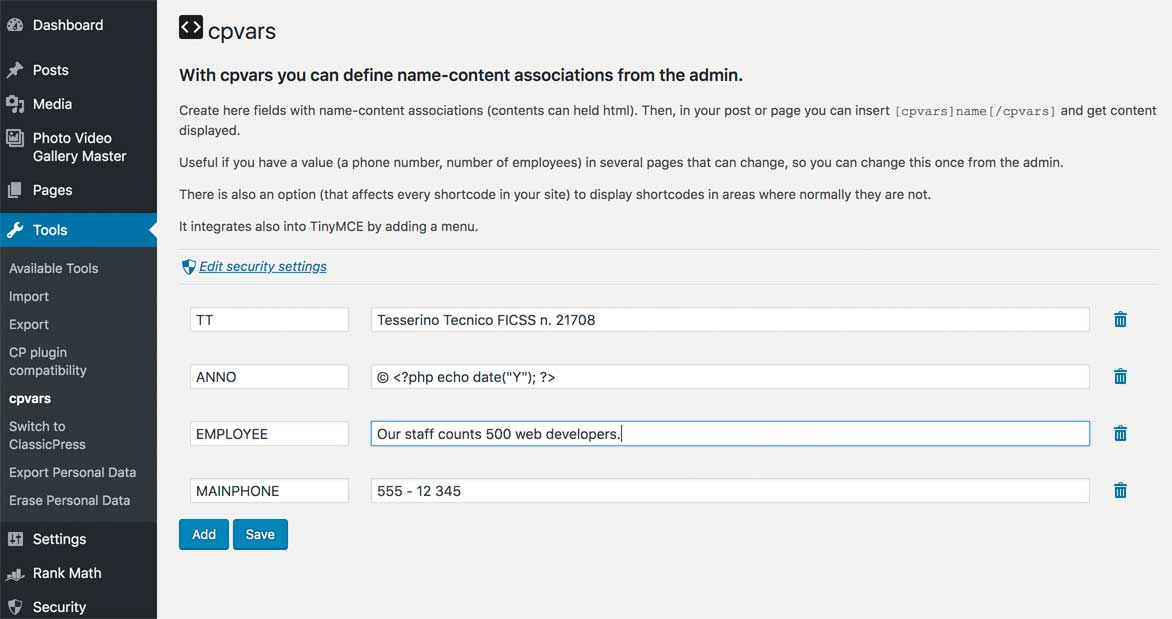
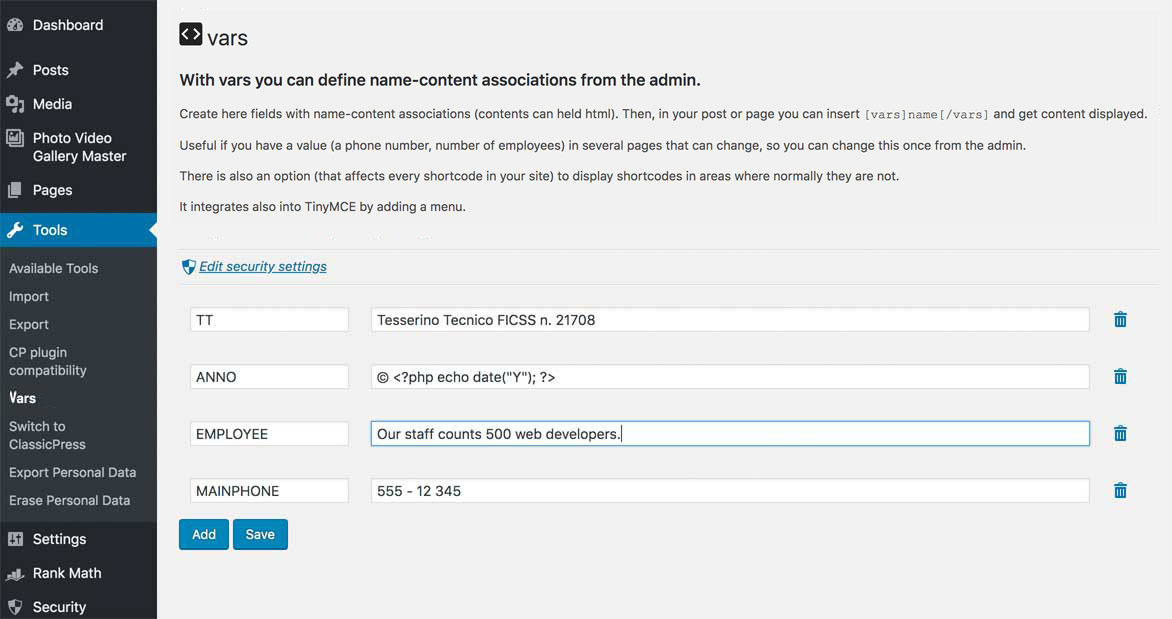
RENAME: screenshots and versioning

Changed region(s): [[0.1536, 0.0, 0.9829, 0.399], [0.0, 0.6139, 0.0307, 0.6753]]

diff --git a/vars.php b/vars.php
@@ -3,7 +3,7 @@
  * Plugin Name: vars
  * Plugin URI: https://github.com/xxsimoxx/vars
  * Description: Vars in shortcodes 
- * Version: 2.0.0
+ * Version: 1.3.0
  * License: GPL2
  * License URI: https://www.gnu.org/licenses/gpl-2.0.html
  * Author: Gieffe edizioni srl

diff --git a/CHANGELOG.md b/CHANGELOG.md
@@ -1,6 +1,8 @@
 # Changelog
-## [2.0.0] 
+## [1.3.0] 
 ### Plugin renamed from cpvars to vars
+- Renamed everything
+- Compatibility with older version settings
 
 ## [1.2.4] 
 ### Fixes

diff --git a/README.md b/README.md
@@ -1,4 +1,4 @@
-# cpvars
+# vars
 
 ## With vars you can define name-value associations from the admin.
 
